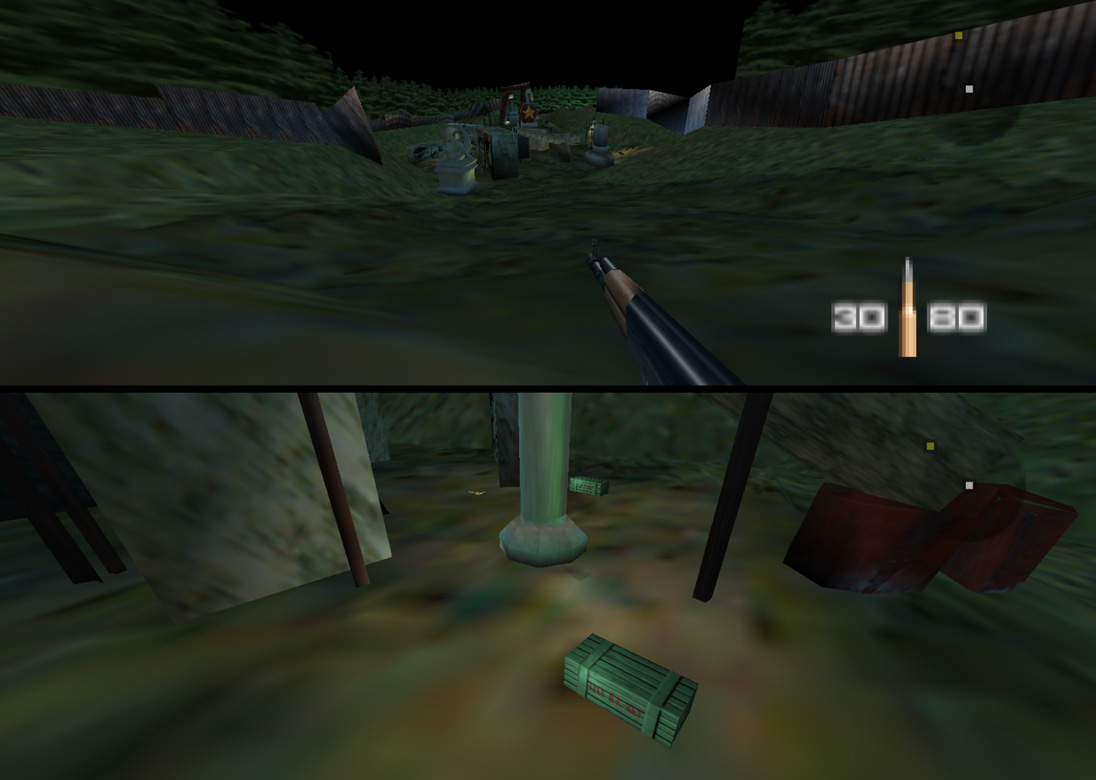
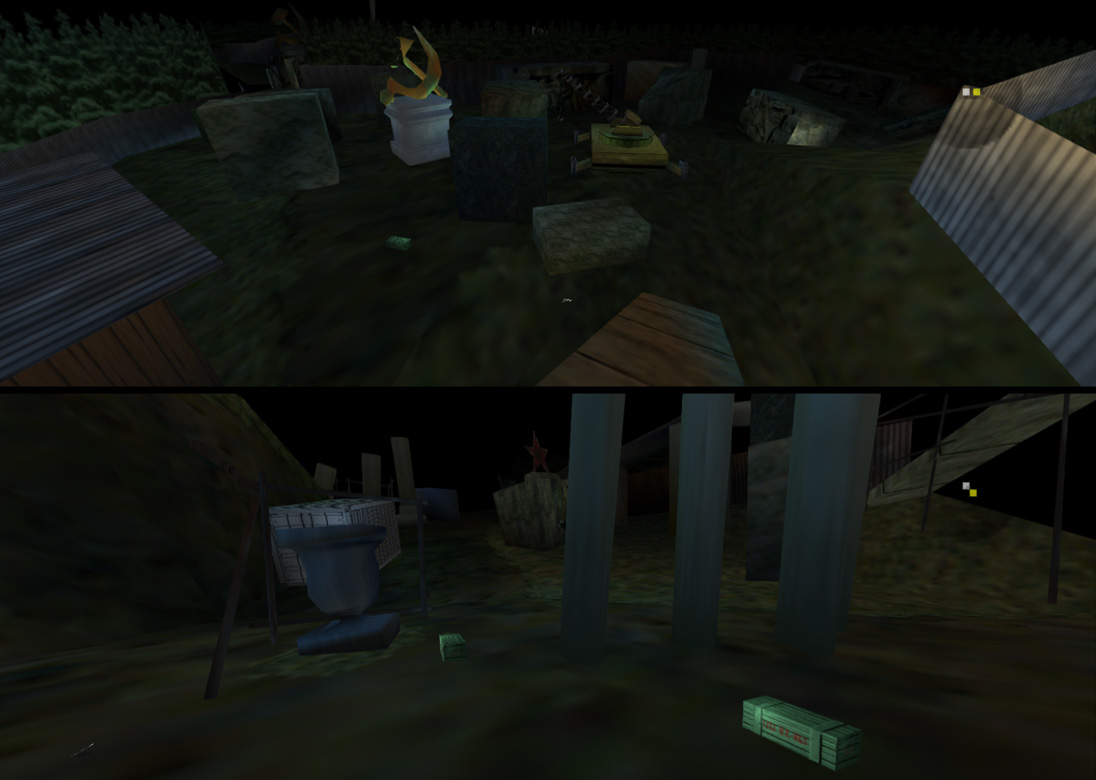
Added mp maps

diff --git a/index.html b/index.html
@@ -80,6 +80,39 @@
 		<article class="blog-panel">
 			<header class="blog-panel__header">
 				<div class="blog-panel__meta">
+					Jan 18, 2026
+					<span class="blog-panel__sep">—</span>
+					<span class="blog-panel__title">Multiplayer Maps</span>
+				</div>
+			</header>
+			
+			<div class="blog-panel__rule" aria-hidden="true"></div>
+			
+			<div class="info-description">
+				<p>
+				You will now find the <a href="/multiplayer.html" class="ge-link">Multiplayer</a> section updated with maps for all the arenas including the unused Statue and Cradle setups. These maps include weapon, ammo, armor, and player spawns. They were made
+				by exporting the level geometry into Blender, creating GoldenEye equivalent materials, deleting the ceilings, and rendering them top-down with an orthographic camera. Eventually there will also be maps
+				for all single player levels.
+				</p>
+			</div>
+			
+			<div class="blog-panel__signature">
+				<img
+				src="images/sig-transp.png"
+				alt="Signature"
+				width="150"
+				height="36"
+				class="blog-panel__sig-image"
+				/>
+				<div class="blog-panel__sig-caption">
+				Ben Colclough, Webmaster of The GoldenEye Depot
+				</div>
+			</div>
+		</article>
+		
+		<article class="blog-panel">
+			<header class="blog-panel__header">
+				<div class="blog-panel__meta">
 					Jan 9, 2026
 					<span class="blog-panel__sep">—</span>
 					<span class="blog-panel__title">Gallery for Unused World Models</span>

diff --git a/levels/temple.html b/levels/temple.html
@@ -56,11 +56,21 @@
 		
 		<div class="section-sep" aria-hidden="true"></div>
 		
+		<h2 class="main-subtitle main-subtitle--centered">Description</h2>
+		
+		<section class="info-description panel">
+			<p>
+				Temple has the strangest weapon and ammo spawn setup of any arena. Many weapon spawns are not paired with ammo spawns of the same slot. There are also a lot of double crates i.e. places where two ammo crates are
+				spawned at the same location. Double crates are marked with two numbers next to them. You can confirm for yourself that
+				these are double crates by shooting them which causes them to separate. Crates that are not adjacent to a weapon of the same slot are also marked with a number.
+			</p>
+		</section>
+		
 		<h2 class="main-subtitle main-subtitle--centered">Level Map</h2>
 		
 		<div class="panel map-panel">
-			<a href="/images/levels/temple/map-temple.png">
-				<img src="/images/levels/temple/map-temple.png">
+			<a href="/images/levels/temple/map-temple.jpg">
+				<img src="/images/levels/temple/map-temple.jpg">
 			</a>
 		</div>
 		

diff --git a/characters.html b/characters.html
@@ -46,10 +46,12 @@
 	
 			<h1 class="page-title page-title--extra-margin">Characters</h1>
 			
-			<p>
-			<span class="gold-text"><em>GoldenEye 007</em></span> has an insane number of characters. I've grouped them into 10 main characters, 4 villains, 21 other characters, 31 hidden characters, and 3 unused characters. 
-			That's a total of <span class="yellow-text">69 characters!</span> They were modeled by late character artist Brett Jones.
-			</p>
+			<section class="info-description panel">
+				<p>
+				<span class="gold-text"><em>GoldenEye 007</em></span> has an insane number of characters. I've grouped them into 10 main characters, 4 villains, 21 other characters, 31 hidden characters, and 3 unused characters. 
+				That's a total of <span class="yellow-text">69 characters!</span> They were modeled by late character artist Brett Jones.
+				</p>
+			</section>
 			
 			<div class="section-sep" aria-hidden="true"></div>
 			

diff --git a/levels/statue-mp.html b/levels/statue-mp.html
@@ -51,7 +51,30 @@
 				<div class="stat-label">Setup File</div><div class="stat-value">Ump_setupstatueZ.set</div>
 			</div>
 		</div>
+		
+		<div class="section-sep" aria-hidden="true"></div>
+		
+		<h2 class="main-subtitle main-subtitle--centered">Level Map</h2>
+		
+		<div class="panel map-panel">
+			<a href="/images/levels/statue/map-statue-mp.jpg">
+				<img src="/images/levels/statue/map-statue-mp.jpg">
+			</a>
+		</div>
+		
+		<h2 class="main-subtitle main-subtitle--centered">Trivia</h2>
+		
+		<ul class="trivia panel">
+			<li>
+				<span class="trivia-fact">
+					An armor is supposed to spawn inside the silver shipping container, but the interior of that container has no collision, so the armor is not spawned.
+				</span>
+			</li>
+		</ul>
+		
 	</main>
+	
+	
 
 	<footer>
 		<div class="footer-inner">

diff --git a/levels/caverns-mp.html b/levels/caverns-mp.html
@@ -54,6 +54,22 @@
 			</div>
 		</div>
 		
+		<div class="section-sep" aria-hidden="true"></div>
+		
+		<h2 class="main-subtitle main-subtitle--centered">Level Map</h2>
+		
+		<div class="panel map-panel">
+			<a href="/images/levels/caverns/map-caverns-mp.jpg">
+				<img src="/images/levels/caverns/map-caverns-mp.jpg">
+			</a>
+		</div>
+
+		<div class="section-sep" aria-hidden="true"></div>
+		
+		<div class="back-link-wrap">
+			<a href="/multiplayer.html" class="back-link">Back to Multiplayer</a>
+		</div>
+		
 	</main>
 
 	<footer>

diff --git a/levels/cradle-mp.html b/levels/cradle-mp.html
@@ -52,6 +52,22 @@
 			</div>
 		</div>
 		
+		<div class="section-sep" aria-hidden="true"></div>
+		
+		<h2 class="main-subtitle main-subtitle--centered">Level Map</h2>
+		
+		<div class="panel map-panel">
+			<a href="/images/levels/cradle/map-cradle-mp.jpg">
+				<img src="/images/levels/cradle/map-cradle-mp.jpg">
+			</a>
+		</div>
+
+		<div class="section-sep" aria-hidden="true"></div>
+		
+		<div class="back-link-wrap">
+			<a href="/multiplayer.html" class="back-link">Back to Multiplayer</a>
+		</div>
+		
 	</main>
 
 	<footer>

diff --git a/levels/library.html b/levels/library.html
@@ -54,6 +54,22 @@
 			</div>
 		</div>
 		
+		<div class="section-sep" aria-hidden="true"></div>
+		
+		<h2 class="main-subtitle main-subtitle--centered">Level Map</h2>
+		
+		<div class="panel map-panel">
+			<a href="/images/levels/library/map-library.jpg">
+				<img src="/images/levels/library/map-library.jpg">
+			</a>
+		</div>
+
+		<div class="section-sep" aria-hidden="true"></div>
+		
+		<div class="back-link-wrap">
+			<a href="/multiplayer.html" class="back-link">Back to Multiplayer</a>
+		</div>
+		
 	</main>
 
 	<footer>

diff --git a/levels/archives-mp.html b/levels/archives-mp.html
@@ -59,8 +59,8 @@
 		<h2 class="main-subtitle main-subtitle--centered">Level Map</h2>
 		
 		<div class="panel map-panel">
-			<a href="/images/levels/archives/map-archives-mp.png">
-				<img src="/images/levels/archives/map-archives-mp.png">
+			<a href="/images/levels/archives/map-archives-mp.jpg">
+				<img src="/images/levels/archives/map-archives-mp.jpg">
 			</a>
 		</div>
 		

diff --git a/levels/egyptian-mp.html b/levels/egyptian-mp.html
@@ -59,8 +59,8 @@
 		<h2 class="main-subtitle main-subtitle--centered">Level Map</h2>
 		
 		<div class="panel map-panel">
-			<a href="/images/levels/egyptian/map-egyptian-mp.png">
-				<img src="/images/levels/egyptian/map-egyptian-mp.png">
+			<a href="/images/levels/egyptian/map-egyptian-mp.jpg">
+				<img src="/images/levels/egyptian/map-egyptian-mp.jpg">
 			</a>
 		</div>
 

diff --git a/levels/facility-mp.html b/levels/facility-mp.html
@@ -59,8 +59,8 @@
 		<h2 class="main-subtitle main-subtitle--centered">Level Map</h2>
 		
 		<div class="panel map-panel">
-			<a href="/images/levels/facility/map-facility-mp.png">
-				<img src="/images/levels/facility/map-facility-mp.png">
+			<a href="/images/levels/facility/map-facility-mp.jpg">
+				<img src="/images/levels/facility/map-facility-mp.jpg">
 			</a>
 		</div>
 

diff --git a/levels/basement.html b/levels/basement.html
@@ -59,8 +59,8 @@
 		<h2 class="main-subtitle main-subtitle--centered">Level Map</h2>
 		
 		<div class="panel map-panel">
-			<a href="/images/levels/basement/map-basement.png">
-				<img src="/images/levels/basement/map-basement.png">
+			<a href="/images/levels/basement/map-basement.jpg">
+				<img src="/images/levels/basement/map-basement.jpg">
 			</a>
 		</div>
 		

diff --git a/levels/bunker-mp.html b/levels/bunker-mp.html
@@ -59,8 +59,8 @@
 		<h2 class="main-subtitle main-subtitle--centered">Level Map</h2>
 		
 		<div class="panel map-panel">
-			<a href="/images/levels/bunker2/map-bunker-mp.png">
-				<img src="/images/levels/bunker2/map-bunker-mp.png">
+			<a href="/images/levels/bunker2/map-bunker-mp.jpg">
+				<img src="/images/levels/bunker2/map-bunker-mp.jpg">
 			</a>
 		</div>
 
